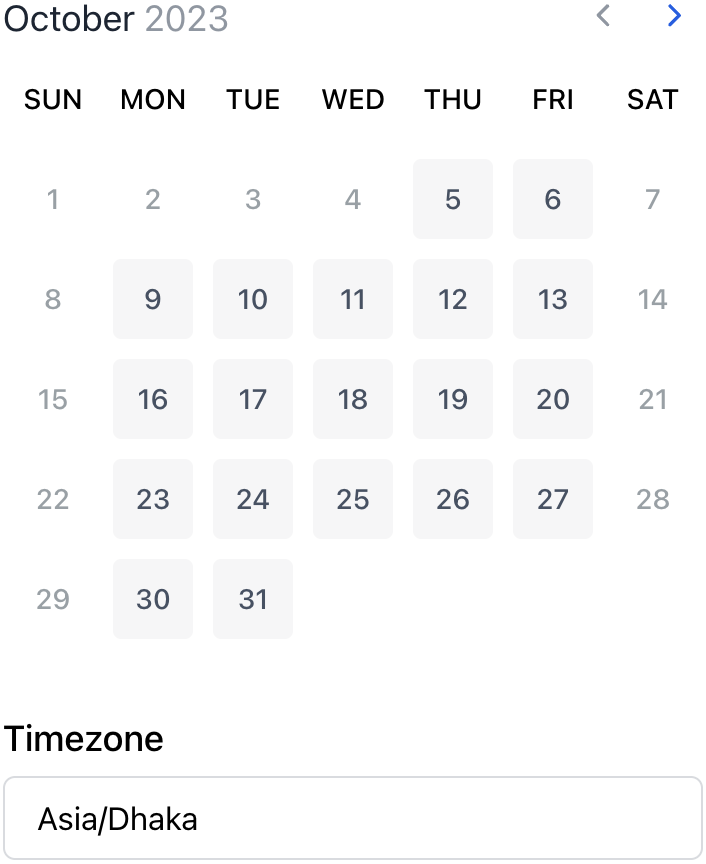
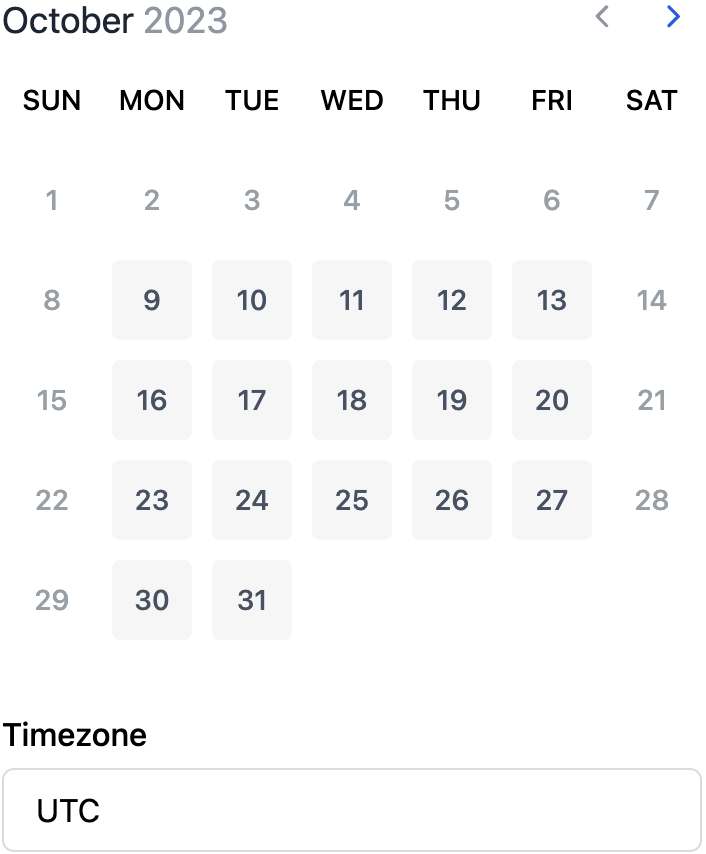
fixed: Animation issue  and mission isPhoneRequired() method

diff --git a/resources/public/styles.scss b/resources/public/styles.scss
@@ -1,3 +1,4 @@
+$breakpoint-tablet2: 1055;
 $breakpoint-tablet: 767px;
 
 .fcal_cal_wrap {
@@ -70,6 +71,7 @@ $breakpoint-tablet: 767px;
 .fcal_calendar_inner {
   display: flex;
   border: 1px solid rgba(26, 26, 26, 0.1);
+  overflow: hidden;
 
   .fcal_side {
     width: 45%;
@@ -83,6 +85,8 @@ $breakpoint-tablet: 767px;
     max-width: 360px;
     overflow: auto;
     min-height: 500px;
+    z-index: 9;
+    background: #ffffff;
     .fcal_author {
       margin-bottom: 10px;
     }
@@ -129,13 +133,29 @@ $breakpoint-tablet: 767px;
     -moz-transition: .5s;
     -o-transition: .5s;
     &.is_active {
-      padding-right: 600px;
+      //padding-right: 600px;
+      .fcal_day_picker_wrap {
+        transform: translateX(-100%);
+        visibility: hidden;
+      }
+    }
+    .fcal_day_picker_wrap {
+      transform: translateX(0);
+      visibility: visible;
+      transition: .5s;
+      -webkit-transition: .5s;
+      -moz-transition: .5s;
+      -o-transition: .5s;
     }
 
     .fcal_date_event_details {
       padding: 24px 20px;
-      width: 600px;
-      max-width: 600px;
+      //width: 600px;
+      //max-width: 600px;
+      z-index: 10;
+      background: #ffffff;
+      width: 100%;
+      max-width: 100%;
       opacity: 0;
       visibility: hidden;
       position: absolute;
@@ -143,11 +163,14 @@ $breakpoint-tablet: 767px;
       -webkit-transition: .5s;
       -moz-transition: .5s;
       -o-transition: .5s;
-      right: 0;
+      right: -100%;
       top: 0;
+      max-height: 100%;
+      overflow-x: hidden;
       &.is_active {
         opacity: 1;
         visibility: visible;
+        right: 0;
       }
       .fcal_date_event_details_header {
         border-bottom: 1px solid #EAECF0;
@@ -219,6 +242,9 @@ $breakpoint-tablet: 767px;
       padding: 30px 20px;
       height: 100%;
       position: relative;
+      @media (max-width: $breakpoint-tablet) {
+        height: auto;
+      }
       .fcal_timezone_select {
         max-width: 350px;
       }
@@ -340,6 +366,22 @@ $breakpoint-tablet: 767px;
         }
         &.day-enabled {
           cursor: pointer;
+          &.day_is_selected {
+            span {
+              line-height: 36px;
+              &:before {
+                content: '';
+                width: 4px;
+                height: 4px;
+                border-radius: 50%;
+                background: #ffffff;
+                position: absolute;
+                left: 50%;
+                bottom: 3px;
+                margin-left: -2px;
+              }
+            }
+          }
           &:hover {
             span {
               background-color: #4587EC;
@@ -347,6 +389,7 @@ $breakpoint-tablet: 767px;
             }
           }
           span {
+            position: relative;
             color: #445164;
             font-weight: 500;
             display: block;
@@ -355,7 +398,7 @@ $breakpoint-tablet: 767px;
             line-height: 40px;
             margin: 0 auto;
             border-radius: 4px;
-            background-color: #F6F6F7;
+            background-color: #e5e7eb;
             transition: .3s;
             -webkit-transition: .3s;
             -moz-transition: .3s;
@@ -468,6 +511,11 @@ $breakpoint-tablet: 767px;
       border-radius: 4px;
       width: 100%;
       align-items: center;
+      transition: .3s;
+      -webkit-transition: .3s;
+      -moz-transition: .3s;
+      -ms-transition: .3s;
+      -o-transition: .3s;
       + .fcal_spot {
         margin-top: 15px;
       }
@@ -762,7 +810,23 @@ $breakpoint-tablet: 767px;
 
   }
 }
-
+@media (max-width: $breakpoint-tablet2) {
+  .fcal_holder {
+    &.f_cal_spot_selected {
+      .fcal_on_mobile {
+        .fcal_day_picker_wrap {
+          .fcal_day_picker {
+            .fcal_calendar_slot_wrap {
+              .fcal_slot_picker {
+                display: block;
+              }
+            }
+          }
+        }
+      }
+    }
+  }
+}
 .fcal_on_mobile {
   .fcal_slot_picker_header {
     text-align: center;
@@ -771,14 +835,34 @@ $breakpoint-tablet: 767px;
   .fcal_date_wrapper {
     &.is_active {
       padding-right: 0;
+      min-width: 100%;
+      .fcal_day_picker_wrap {
+        transform: translateX(0);
+        display: none;
+      }
+      .fcal_date_event_details {
+        &.is_active {
+          display: block;
+        }
+      }
     }
     .fcal_date_event_details {
       width: 100%;
+      max-width: 100%;
       position: relative;
       visibility: visible;
       opacity: 1;
+      display: none;
     }
     .fcal_calendar_slot_wrap {
+      flex-direction: column;
+      gap: 30px;
+      .fcal_slot_picker {
+        //min-width: 100%;
+        &.is_active {
+          display: none;
+        }
+      }
       &.is_active {
         padding-right: 0;
       }

diff --git a/resources/public/BookingApp.svelte b/resources/public/BookingApp.svelte
@@ -25,7 +25,7 @@
         timezone = util.dayjs.tz.guess();
 
         appReady = true;
-        if(window.outerWidth <= 767) {
+        if(window.outerWidth <= 1045) {
             isMobile = true;
         }
         if (window.outerWidth < 400) {
@@ -34,7 +34,7 @@
     });
 
     window.onresize = function () {
-        if(window.outerWidth <= 767) {
+        if(window.outerWidth <= 1045) {
             isMobile = true;
         }
         if (window.outerWidth < 400) {
@@ -158,25 +158,25 @@
                 {/if}
                 <div class="fcal_date_wrapper {selectedDate ? 'is_active' : ''}">
                     {#if appReady}
-                        {#if !selectedDate}
-                            <DayPickerApp 
-                                {slot}
-                                {settings}
-                                bind:timezone={timezone}
-                                on:dayClicked={(e) => {dayClicked(e.detail)}} 
-                                on:spotSelected={(e) => {spotSelected(e.detail)}}
-                                on:timezoneChanged={(e) => {resetSelection()}}
-                                on:resetSelection={(e) => { resetSelection() }}
-                            />
-                        {/if}
-                        {#if isFluentform }
-                            <BookingDetails
-                                {appData}
-                                {timezone}
-                                {selectedDate}
-                                on:resetSelection={(e) => { resetSelection() }}
-                            />
-                        {/if}
+                        <div class="fcal_day_picker_wrap">
+                                <DayPickerApp
+                                    {slot}
+                                    {settings}
+                                    bind:timezone={timezone}
+                                    on:dayClicked={(e) => {dayClicked(e.detail)}}
+                                    on:spotSelected={(e) => {spotSelected(e.detail)}}
+                                    on:timezoneChanged={(e) => {resetSelection()}}
+                                    on:resetSelection={(e) => { resetSelection() }}
+                                />
+                            {#if isFluentform }
+                                <BookingDetails
+                                    {appData}
+                                    {timezone}
+                                    {selectedDate}
+                                    on:resetSelection={(e) => { resetSelection() }}
+                                />
+                            {/if}
+                        </div>
 
                             <div class="fcal_date_event_details {selectedDate ? 'is_active' : ''}">
                                 <div class="fcal_date_event_details_header">

diff --git a/resources/scss/elements/_scheduler.scss b/resources/scss/elements/_scheduler.scss
@@ -2036,8 +2036,9 @@
   }
 
   .fcal_schedule_details_content {
-    width: 100%;
-    max-width: 670px;
+    //width: 100%;
+    //max-width: 670px;
+    flex: 1;
 
     .fcal_schedule_details_event {
       display: grid;
@@ -2150,7 +2151,9 @@
   }
 
   .fcal_booking_activities {
-    flex: 1;
+    //flex: 1;
+    max-width: 330px;
+    width: 100%;
 
     .fcal_schedule_event_infos {
       .fcal_schedule_event_infos_body {

diff --git a/app/Http/Controllers/BookingController.php b/app/Http/Controllers/BookingController.php
@@ -69,7 +69,7 @@ class BookingController extends Controller
             'start_date' => 'required'
         ];
 
-        $isPhoneRequired = BookingService::isPhoneRequired($calendarSlot);
+        $isPhoneRequired = $calendarSlot->isPhoneRequired();
         if ($isPhoneRequired) {
             $rules['phone'] = 'required';
         }

diff --git a/app/Hooks/Handlers/FrontEndHandler.php b/app/Hooks/Handlers/FrontEndHandler.php
@@ -135,7 +135,7 @@ class FrontEndHandler
             'start_date' => 'required'
         ];
 
-        $isPhoneRequired = BookingService::isPhoneRequired($calendarSlot);
+        $isPhoneRequired = $calendarSlot->isPhoneRequired();
         if ($isPhoneRequired) {
             $rules['phone'] = 'required';
         }

diff --git a/app/Hooks/Handlers/BlockEditorHandler.php b/app/Hooks/Handlers/BlockEditorHandler.php
@@ -43,6 +43,6 @@ class BlockEditorHandler
     public function fcal_render_block($attributes)
     {
         $slotId = $attributes['slotId'];
-        return do_shortcode("[fluent_booking id=$slotId style=$attributes]");
+        return do_shortcode("[fluent_booking id=$slotId]");
     }
 }
